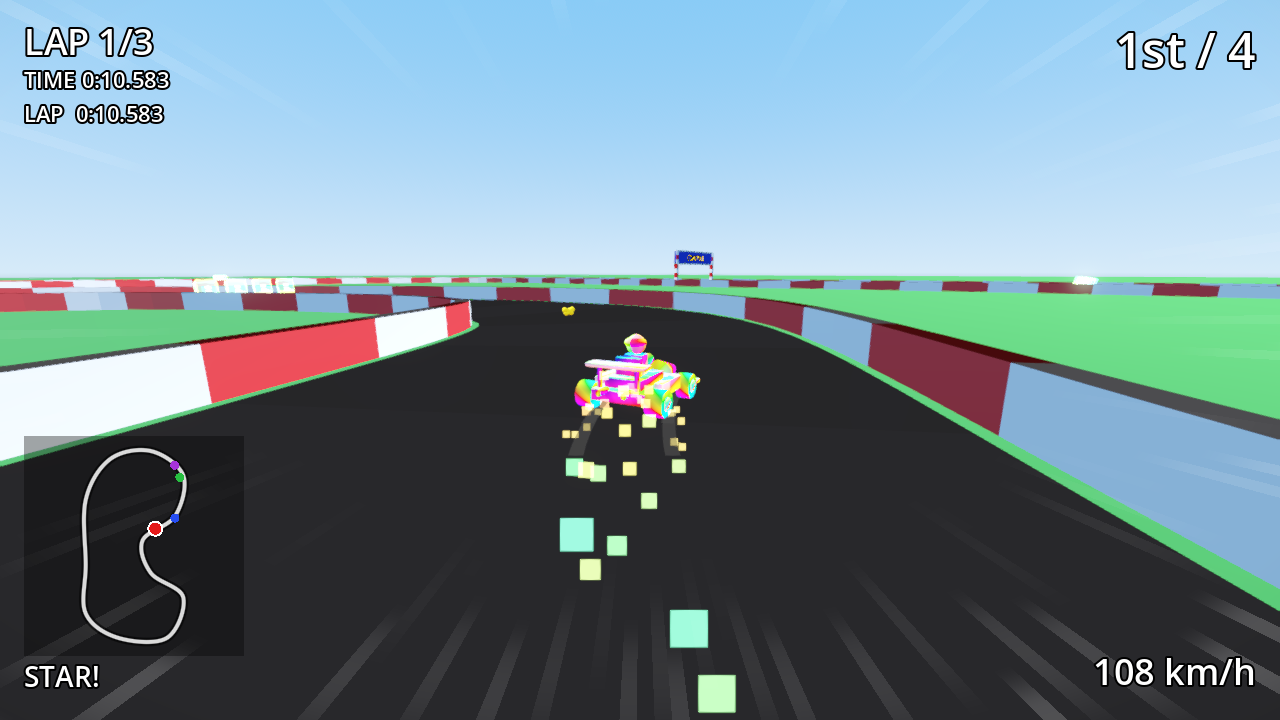
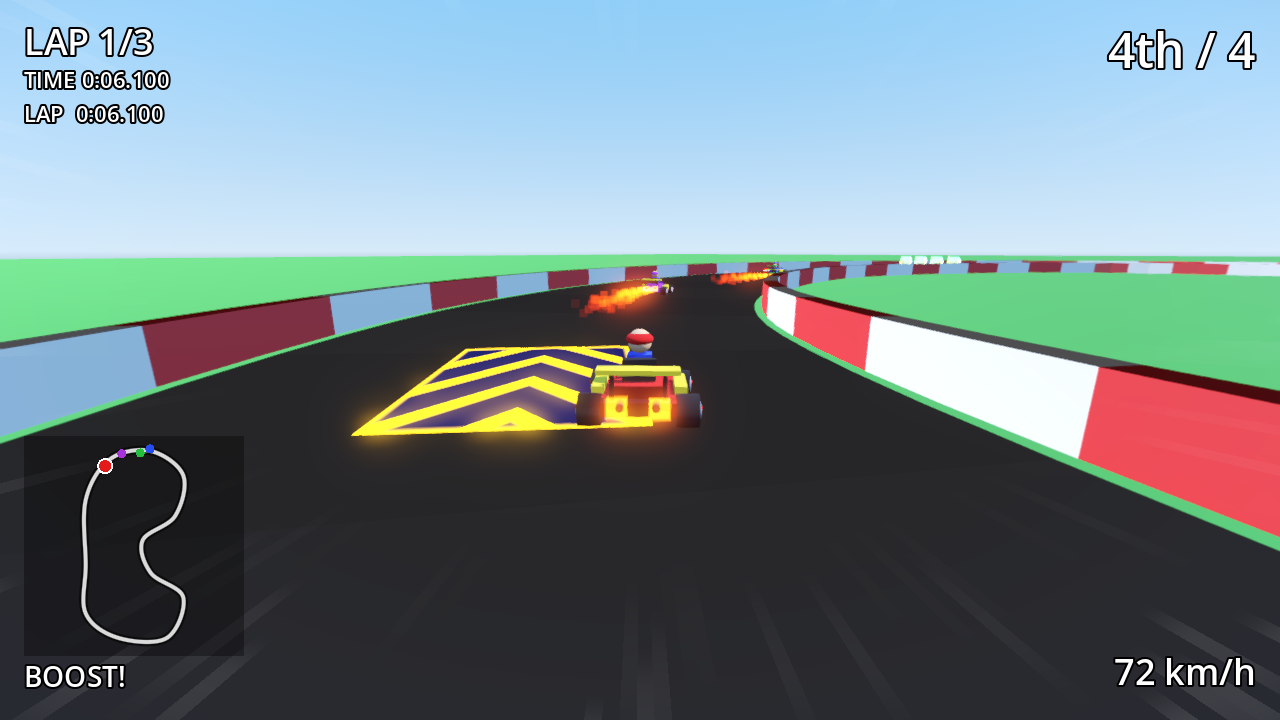
README: swap Green Hills screenshot for boost pad shot

diff --git a/README.md b/README.md
@@ -6,7 +6,7 @@ A Mario Kart–style arcade kart racer built with **Godot 4** and GDScript. Ever
 
 | Green Hills | Sunset Speedway | Frosty Peaks |
 | --- | --- | --- |
-| ![Drifting through Green Hills in 1st place](assets/screenshots/green-hills-drift.png) | ![Racing the pack on Sunset Speedway](assets/screenshots/sunset-speedway.png) | ![Chasing 2nd place on Frosty Peaks](assets/screenshots/frosty-peaks.png) |
+| ![Hitting a boost pad on Green Hills](assets/screenshots/green-hills-drift.png) | ![Racing the pack on Sunset Speedway](assets/screenshots/sunset-speedway.png) | ![Chasing 2nd place on Frosty Peaks](assets/screenshots/frosty-peaks.png) |
 
 ![Chasing the pack on Green Hills, 4th of 4 on lap 1](assets/screenshots/green-hills-chase.png)
 
